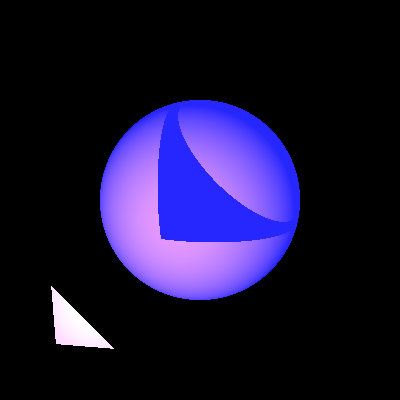
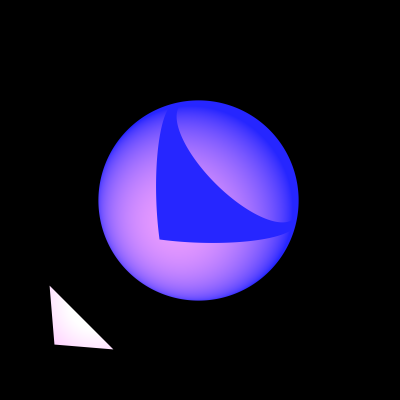
supersampling and image creation

diff --git a/unitTests/renderer/FinalImageTest.java b/unitTests/renderer/FinalImageTest.java
@@ -1,0 +1,164 @@
+package renderer;
+
+import geometries.Plane;
+import geometries.Polygon;
+import geometries.Sphere;
+import lighting.AmbientLight;
+import lighting.DirectionalLight;
+import lighting.PointLight;
+import lighting.SpotLight;
+import org.junit.jupiter.api.Test;
+import primitives.Color;
+import primitives.Material;
+import primitives.Point;
+import primitives.Vector;
+import scene.Scene;
+
+import static java.awt.Color.*;
+
+public class FinalImageTest {
+    @Test
+    public void FinalImage() {
+        Scene scene = new Scene.SceneBuilder("Test scene")
+                .setAmbientLight(new AmbientLight(new Color(WHITE), 0.15)).build();
+        Camera camera = new Camera(new Point(0, 0, 40), new Vector(0, 0, -1), new Vector(0, 1, 0))
+                .setVPSize(200, 200).setVPDistance(100)
+                .setRayTracer(new RayTracerBasic(scene)).setSuperSampling(1);
+
+
+        // adding 4 walls, ceiling and floor
+        scene.geometries.add(
+
+                // walls and floors
+                new Plane(new Point(-45, 0, 0), new Vector(1, 0, 0)) // left wall
+                        .setMaterial(new Material().setShininess(60))
+                        .setEmission(new Color(255, 150, 255)),
+                new Plane(new Point(45, 0, 0), new Vector(-1, 0, 0)) // right wall
+                        .setMaterial(new Material().setShininess(60))
+                        .setEmission(new Color(150, 0, 255)),
+                new Plane(new Point(0, -45, 0), new Vector(0, 1, 0)) // floor
+                        .setMaterial(new Material().setKr(0.2).setShininess(60))
+                        .setEmission(new Color(GRAY)),
+                new Plane(new Point(0, 45, 0), new Vector(0, -1, 0)) // ceiling
+                        .setMaterial(new Material().setShininess(60))
+                        .setEmission(new Color(BLACK)),
+                new Plane(new Point(0, 0, -100), new Vector(0, 0, 1)) // back wall
+                        .setMaterial(new Material().setShininess(60))
+                        .setEmission(new Color(GRAY).scale(0.7)),
+
+                // mirror
+                new Polygon(new Point(-44.9,-15, -10), new Point(-44.9,-15, -70), new Point(-44.9,15, -70), new Point(-44.9,15, -10 ))
+                        .setEmission(new Color(WHITE)).setMaterial(new Material().setKr(1).setShininess(100)),
+
+
+                // floor decoration
+                new Polygon(new Point(45, -44.9, -75), new Point(22.5, -44.9, -75), new Point(22.5, -44.9, -50), new Point(45, -44.9, -50))
+                        .setEmission(new Color(BLACK)).setMaterial(new Material().setKr(0.2).setShininess(60)),
+                new Polygon(new Point(45, -44.9, -25), new Point(22.5, -44.9, -25), new Point(22.5, -44.9, 0), new Point(45, -44.9, 0))
+                        .setEmission(new Color(BLACK)).setMaterial(new Material().setKr(0.2).setShininess(60)),
+                new Polygon(new Point(22.5, -44.9, -100), new Point(0, -44.9, -100), new Point(0, -44.9, -75), new Point(22.5, -44.9, -75))
+                        .setEmission(new Color(BLACK)).setMaterial(new Material().setKr(0.2).setShininess(60)),
+                new Polygon(new Point(22.5, -44.9, -50), new Point(0, -44.9, -50), new Point(0, -44.9, -25), new Point(22.5, -44.9, -25))
+                        .setEmission(new Color(BLACK)).setMaterial(new Material().setKr(0.2).setShininess(60)),
+                new Polygon(new Point(0, -44.9, -75), new Point(-22.5, -44.9, -75), new Point(-22.5, -44.9, -50), new Point(0, -44.9, -50))
+                        .setEmission(new Color(BLACK)).setMaterial(new Material().setKr(0.2).setShininess(60)),
+                new Polygon(new Point(0, -44.9, -25), new Point(-22.5, -44.9, -25), new Point(-22.5, -44.9, 0), new Point(0, -44.9, 0))
+                        .setEmission(new Color(BLACK)).setMaterial(new Material().setKr(0.2).setShininess(60)),
+                new Polygon(new Point(-22.5, -44.9, -100), new Point(-45, -44.9, -100), new Point(-45, -44.9, -75), new Point(-22.5, -44.9, -75))
+                        .setEmission(new Color(BLACK)).setMaterial(new Material().setKr(0.2).setShininess(60)),
+                new Polygon(new Point(-22.5, -44.9, -50), new Point(-45, -44.9, -50), new Point(-45, -44.9, -25), new Point(-22.5, -44.9, -25))
+                        .setEmission(new Color(BLACK)).setMaterial(new Material().setKr(0.2).setShininess(60)),
+
+
+                // Far Chandelier
+                new Sphere(new Point(0, 28, -65), 4)
+                        .setEmission(new Color(255, 235, 50)).setMaterial(new Material().setKt(0.6)), // light bulb
+                new Polygon(new Point(-4, 31, -60), new Point(4, 31, -60), new Point(8, 24.5, -60), new Point(-8, 24.5, -60))
+                        .setEmission(new Color(BLUE)),  // Chandelier body
+                new Polygon(new Point(-0.2, 45, -65), new Point(0.2, 45, -65), new Point(0.2, 30, -65), new Point(-0.2, 30, -65))
+                        .setEmission(new Color(BLUE)), // string
+                new Sphere(new Point(0, 30, -60), 1.5)
+                        .setEmission(new Color(BLUE)),
+                new Sphere(new Point(0, 45, -65), 2.5)
+                        .setEmission(new Color(BLUE)),
+
+                // Close Chandelier
+                new Sphere(new Point(0, 32, -12), 4.5)
+                        .setEmission(new Color(255, 235, 50))
+                        .setMaterial(new Material().setKt(0.6)), // light bulb
+                new Polygon(new Point(-3.5, 31, -3), new Point(3.5, 31, -3), new Point(7, 24.5, -3), new Point(-7.3, 24.5, -3))
+                        .setEmission(new Color(BLUE)),  // Chandelier body
+                new Polygon(new Point(-0.2, 45, -5), new Point(0.2, 45, -5), new Point(0.2, 30, -5), new Point(-0.2, 30, -5))
+                        .setEmission(new Color(BLUE)), // string
+                new Sphere(new Point(0, 31.8, -5), 0.9)
+                        .setEmission(new Color(BLUE)),
+                new Sphere(new Point(0, 46, -5), 2)
+                        .setEmission(new Color(BLUE)),
+
+
+                // playroom toys
+                new Sphere(new Point(-22, -29.9, -70), 15)
+                        .setEmission(new Color(RED))
+                        .setMaterial(new Material().setKd(0.11).setKs(0.00001)),
+                        //.setMaterial(new Material().setKr(0.4).setKd(0.1).setShininess(50).setKs(0.7)),
+                new Sphere(new Point(-30, -40.5, -20), 4)
+                        .setEmission(new Color(YELLOW).reduce(2.5))
+                        .setMaterial(new Material().setKd(0.11)),
+                new Sphere(new Point(24, -35.5, -12), 9)
+                        .setEmission(new Color(BLUE).scale(5))
+                        .setMaterial(new Material().setKd(0.12).setKs(0.001).setKt(0.6)),
+                new Sphere(new Point(24, -39.5, -36), 5)
+                        .setEmission(new Color(255, 87, 51))
+                        .setMaterial(new Material().setKs(0.001).setKd(0.081)),
+                new Sphere(new Point(0, -34.5, -30), 9).setMaterial(new Material().setKd(0.11).setKs(0.21))
+                        .setEmission(new Color(GREEN).reduce(2))
+                        .setMaterial(new Material().setKd(0.11).setKs(0.00001)));
+
+
+
+
+        // lighting on far chandelier
+//        scene.lights.add(new PointLight(new Color(WHITE), new Point(0, 28, -65)));
+//        scene.lights.add(new PointLight(new Color(WHITE), new Point(0, 32, -12)));
+//        scene.lights.add(new PointLight(new Color(ORANGE), new Point(0, 32, -12)));
+//        scene.lights.add(new PointLight(new Color(red), new Point(0, 32, -12)));
+//        scene.lights.add(new PointLight(new Color(RED), new Point(0, 32, -12)));
+//        scene.lights.add(new PointLight(new Color(ORANGE), new Point(0, 32, -12)));
+//        scene.lights.add(new PointLight(new Color(RED), new Point(0, 32, -12)));
+//        scene.lights.add(new PointLight(new Color(WHITE), new Point(0, 32, -12)));
+//        scene.lights.add(new DirectionalLight(new Color(YELLOW), new Vector(-22, -56, -50)));
+//        scene.lights.add(new DirectionalLight(new Color(WHITE), new Vector(-22, -56, -50)));
+
+//        // lighting on close chandelier
+        scene.lights.add(new PointLight(new Color(ORANGE), new Point(0, 32, -12)));
+        scene.lights.add(new PointLight(new Color(YELLOW), new Point(0, 32, -12)));
+        scene.lights.add(new PointLight(new Color(WHITE), new Point(0, 32, -12)));
+        scene.lights.add(new PointLight(new Color(ORANGE), new Point(0, 32, -12)));
+        scene.lights.add(new PointLight(new Color(RED), new Point(0, 32, -12)));
+        scene.lights.add(new PointLight(new Color(YELLOW), new Point(0, 32, -12)));
+
+        // spotlight on green Ball
+        scene.lights.add(new SpotLight(new Color(blue), new Point(0,32,-12), new Vector(0, -66.5, -18)));
+        scene.lights.add(new SpotLight(new Color(blue), new Point(0,32,-12), new Vector(0, -66.5, -18)));
+        scene.lights.add(new SpotLight(new Color(blue), new Point(0,32,-12), new Vector(0, -66.5, -18)));
+
+        // spotlight on blue Ball
+        scene.lights.add(new SpotLight(new Color(ORANGE).reduce(2), new Point(0,44,15), new Vector(25,-82.5,-30)));
+        scene.lights.add(new SpotLight(new Color(WHITE).reduce(2), new Point(0,44,15), new Vector(25,-82.5,-30)));
+        //scene.lights.add(new SpotLight(new Color(RED), new Point(0,44,15), new Vector(25,-82.5,-30)));
+
+
+
+
+
+        scene.lights.add(new PointLight(new Color(BLUE), new Point(0, 44.9, -48.3)));
+        scene.lights.add(new SpotLight(new Color(BLUE), new Point(0, 4, 4), new Vector(0, 30, 0)));
+        scene.lights.add(new DirectionalLight(new Color(WHITE), new Vector(-29,3.5,-36)));
+
+        ImageWriter imageWriter = new ImageWriter("FinalImage", 600, 600);
+        camera.setImageWriter(imageWriter) //
+                .setRayTracer(new RayTracerBasic(scene)) //
+                .renderImage() //
+                .writeToImage();
+    }
+}

diff --git a/src/renderer/Camera.java b/src/renderer/Camera.java
@@ -5,6 +5,8 @@ import primitives.Point;
 import primitives.Ray;
 import primitives.Vector;
 
+import java.util.ArrayList;
+import java.util.List;
 import java.util.MissingResourceException;
 
 import static primitives.Util.isZero;
@@ -63,6 +65,8 @@ public class Camera {
      * The RayTracerBase object used to trace the rays in the scene captured by the camera.
      */
     private RayTracerBase rayTracer;
+
+    private int superSampling = 0;
 
 
     /**
@@ -138,6 +142,17 @@ public class Camera {
     }
 
     /**
+     * sets the superSampling flag of the Camera
+     *
+     * @param superSampling the superSampling flag to be set
+     * @return this Camera object
+     */
+    public Camera setSuperSampling(int superSampling) {
+        this.superSampling = superSampling;
+        return this;
+    }
+
+    /**
      * Constructs a new ray from the camera's position through the specified
      * pixel coordinates in the viewPlane.
      *
@@ -184,8 +199,68 @@ public class Camera {
     }
 
 
+    private Color castRayBeam(int nX, int nY, int j, int i) {
+        int superSamp = superSampling;
+        List<Ray> ans = new ArrayList<>();
+
+        //Image center
+        Point p = p0.add(vTo.scale(distance));
+
+        //Ratio (pixel width & height)
+        double rY = height / nY;
+        double rX = width / nX;
+
+        //Pixel[i,j] center
+        double yI = -(i - ((nY - 1) / 2)) * rY;
+        double xJ = (j - ((nX - 1) / 2)) * rX;
+
+        //distance between the start of the ray in the pixel
+        double dX = (double) rX / superSamp;
+        double dY = (double) rY / superSamp;
+
+        //the first point
+        double firstX = xJ + ((int) (superSamp / 2)) * dX;
+        double firstY = yI + ((int) (superSamp / 2)) * dY;
+        Point pIJ = p;
+        if (!isZero(firstX))
+            pIJ = pIJ.add(vRight.scale(firstX));
+        if (!isZero(firstY))
+            pIJ = pIJ.add(vUp.scale(firstY));
+        Point p1 = pIJ;
+
+        for (int c = 0; c < superSamp; c++) {
+            for (int b = 0; b < superSamp; b++) {
+                p1 = pIJ;
+                if (!isZero(c)) {
+                    p1 = p1.add(vRight.scale(dX * c));
+                }
+                if (!isZero(b)) {
+                    p1 = p1.add(vUp.scale(dY * b));
+                }
+
+                ans.add(new Ray(p0, p1.subtract(p0)));
+            }
+        }
+
+        double r = 0, g = 0, b = 0;
+        for (Ray ray : ans) {
+            Color rayColor = rayTracer.traceRay(ray);
+            r += rayColor.getColor().getRed();
+            g += rayColor.getColor().getGreen();
+            b += rayColor.getColor().getBlue();
+        }
+        r = r / (ans.size());
+        g = g / (ans.size());
+        b = b / (ans.size());
+
+        return new Color(r, g, b);
+
+    }
+
+
     /**
      * Renders an image using the camera's settings.
+     *
      * @return this camera object
      * @throws MissingResourceException if one of the camera's fields is missing
      */
@@ -211,13 +286,19 @@ public class Camera {
 
         int nX = imageWriter.getNx();
         int nY = imageWriter.getNy();
+        Color color;
+
         // Iterate over the width of the image (columns)
         for (int j = 0; j < nX; j++) {
 
             // Iterate over the height of the image (rows)
             for (int i = 0; i < nY; i++) {
 
-                Color color = castRay(nX, nY, j, i);
+                if (superSampling == 0) {
+                    color = castRay(nX, nY, j, i);
+                } else { // superSampling
+                    color = castRayBeam(nX, nY, j, i);
+                }
                 imageWriter.writePixel(j, i, color);
             }
         }

diff --git a/unitTests/lighting/LightsTests.java b/unitTests/lighting/LightsTests.java
@@ -29,7 +29,7 @@ public class LightsTests {
             .setAmbientLight(new AmbientLight(new Color(WHITE), new Double3(0.15))).build();
     private final Camera camera1 = new Camera(new Point(0, 0, 1000),
             new Vector(0, 0, -1), new Vector(0, 1, 0))
-            .setVPSize(150, 150).setVPDistance(1000);
+            .setVPSize(150, 150).setVPDistance(1000).setSuperSampling(1);
     private final Camera camera2 = new Camera(new Point(0, 0, 1000),
             new Vector(0, 0, -1), new Vector(0, 1, 0))
             .setVPSize(200, 200).setVPDistance(1000);

diff --git a/unitTests/renderer/ShadowTests.java b/unitTests/renderer/ShadowTests.java
@@ -23,7 +23,7 @@ public class ShadowTests {
             .build();
    private Camera        camera     = new Camera(new Point(0, 0, 1000), new Vector(0, 0, -1), new Vector(0, 1, 0))   //
       .setVPSize(200, 200).setVPDistance(1000)                                                                       //
-      .setRayTracer(new RayTracerBasic(scene));
+      .setRayTracer(new RayTracerBasic(scene)).setSuperSampling(1);
 
    /** Helper function for the tests in this module */
    void sphereTriangleHelper(String pictName, Triangle triangle, Point spotLocation) {

diff --git a/src/primitives/Vector.java b/src/primitives/Vector.java
@@ -1,5 +1,7 @@
 package primitives;
 
+import static primitives.Util.isZero;
+
 /**
  * Class Vector is the basic class representing a vector of Euclidean geometry in Cartesian 3-Dimensional coordinate system
  *
@@ -47,6 +49,8 @@ public class Vector extends Point {
      * @return result of multiplication
      */
     public Vector scale(double number) {
+        if(isZero(number))
+            return this;
         return new Vector(this.xyz.scale(number));
     }
 

diff --git a/unitTests/renderer/ReflectionRefractionTests.java b/unitTests/renderer/ReflectionRefractionTests.java
@@ -29,7 +29,7 @@ public class ReflectionRefractionTests {
    @Test
    public void twoSpheres() {
       Camera camera = new Camera(new Point(0, 0, 1000), new Vector(0, 0, -1), new Vector(0, 1, 0)) //
-         .setVPSize(150, 150).setVPDistance(1000);
+         .setVPSize(150, 150).setVPDistance(1000).setSuperSampling(1);
       Scene scene = sceneB.build();
 
       scene.geometries.add( //

diff --git a/src/primitives/Material.java b/src/primitives/Material.java
@@ -20,12 +20,12 @@ public class Material {
     public Double3 kS = Double3.ZERO;
 
     /**
-     * The reflection coefficient.
+     * The transparency coefficient.
      */
     public Double3 kT = Double3.ZERO;
 
     /**
-     * The transparency coefficient.
+     * The reflection coefficient.
      */
     public Double3 kR = Double3.ZERO;
 

diff --git a/src/renderer/ImageWriter.java b/src/renderer/ImageWriter.java
@@ -26,6 +26,8 @@ public class ImageWriter {
 
     private final Logger logger = Logger.getLogger("ImageWriter");
 
+
+
     // ***************** Constructors ********************** //
 
     /**
